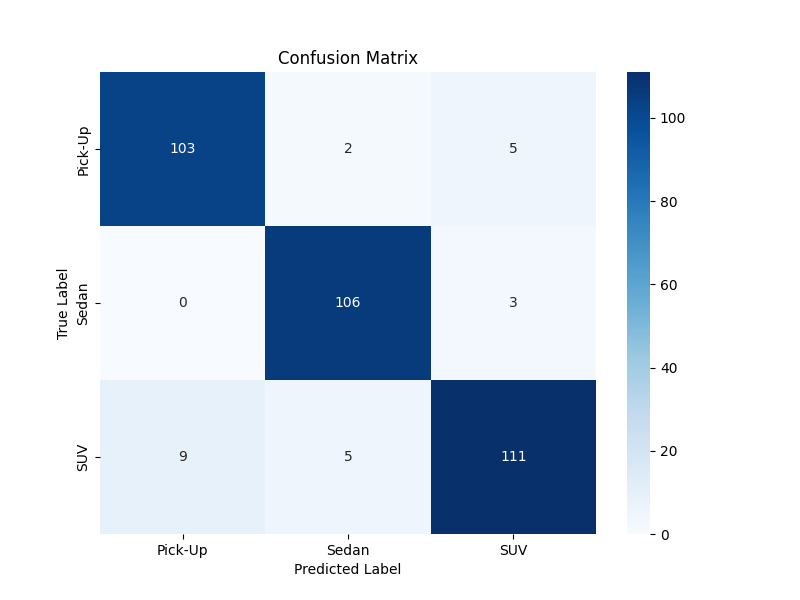
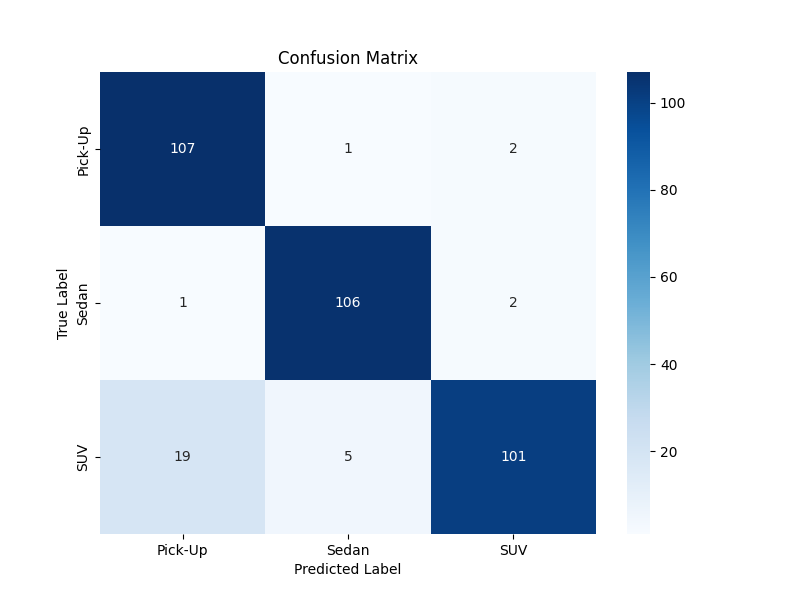
Add files via upload

diff --git a/ImageClassification_Onnex.py b/ImageClassification_Onnex.py
@@ -58,10 +58,7 @@ data_train_tensor = torch.stack( dataset_train )
 targets_train = torch.Tensor(  targets_train  ).type(   torch.LongTensor   )
 
 # Calculate mean and standard deviation per channel
-mean = data_train_tensor.mean(dim=[0, 2, 3])
-std = data_train_tensor.std(dim=[0, 2, 3])
-print(f"Mean: ", mean)
-print(f"STD: ", std)
+
 
 
 
@@ -70,7 +67,7 @@ normalized_train_transform = transforms.Compose([
     transforms.ToPILImage(),
     transforms.Resize((64, 64)),
     transforms.ToTensor(),
-    transforms.Normalize(mean=mean.tolist(), std=std.tolist())
+    transforms.Normalize((0.5, 0.5, 0.5), (0.5, 0.5, 0.5))
 ])
 
 # Reprocess the training images using normalization
@@ -111,7 +108,7 @@ test_transform = transforms.Compose([
     transforms.ToPILImage(),
     transforms.Resize((64, 64)),
     transforms.ToTensor(),
-    transforms.Normalize(mean=mean.tolist(), std=std.tolist())
+    transforms.Normalize((0.5, 0.5, 0.5), (0.5, 0.5, 0.5))
 ])
 # Load from folders
 for folder in os.listdir(raw_data_test):
